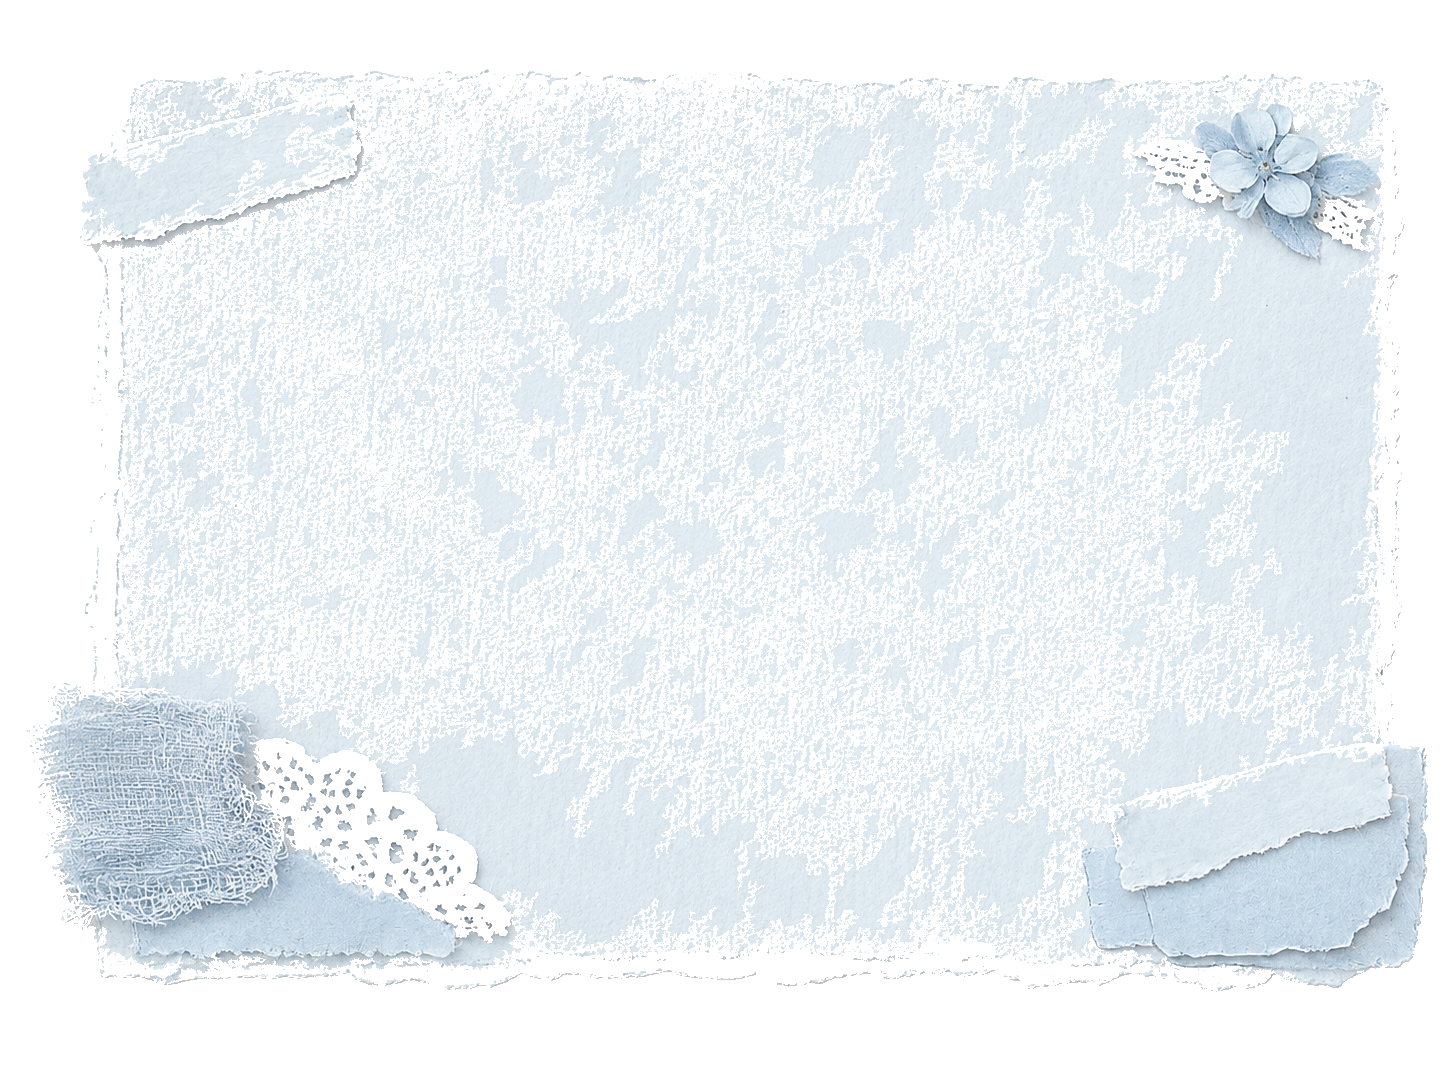
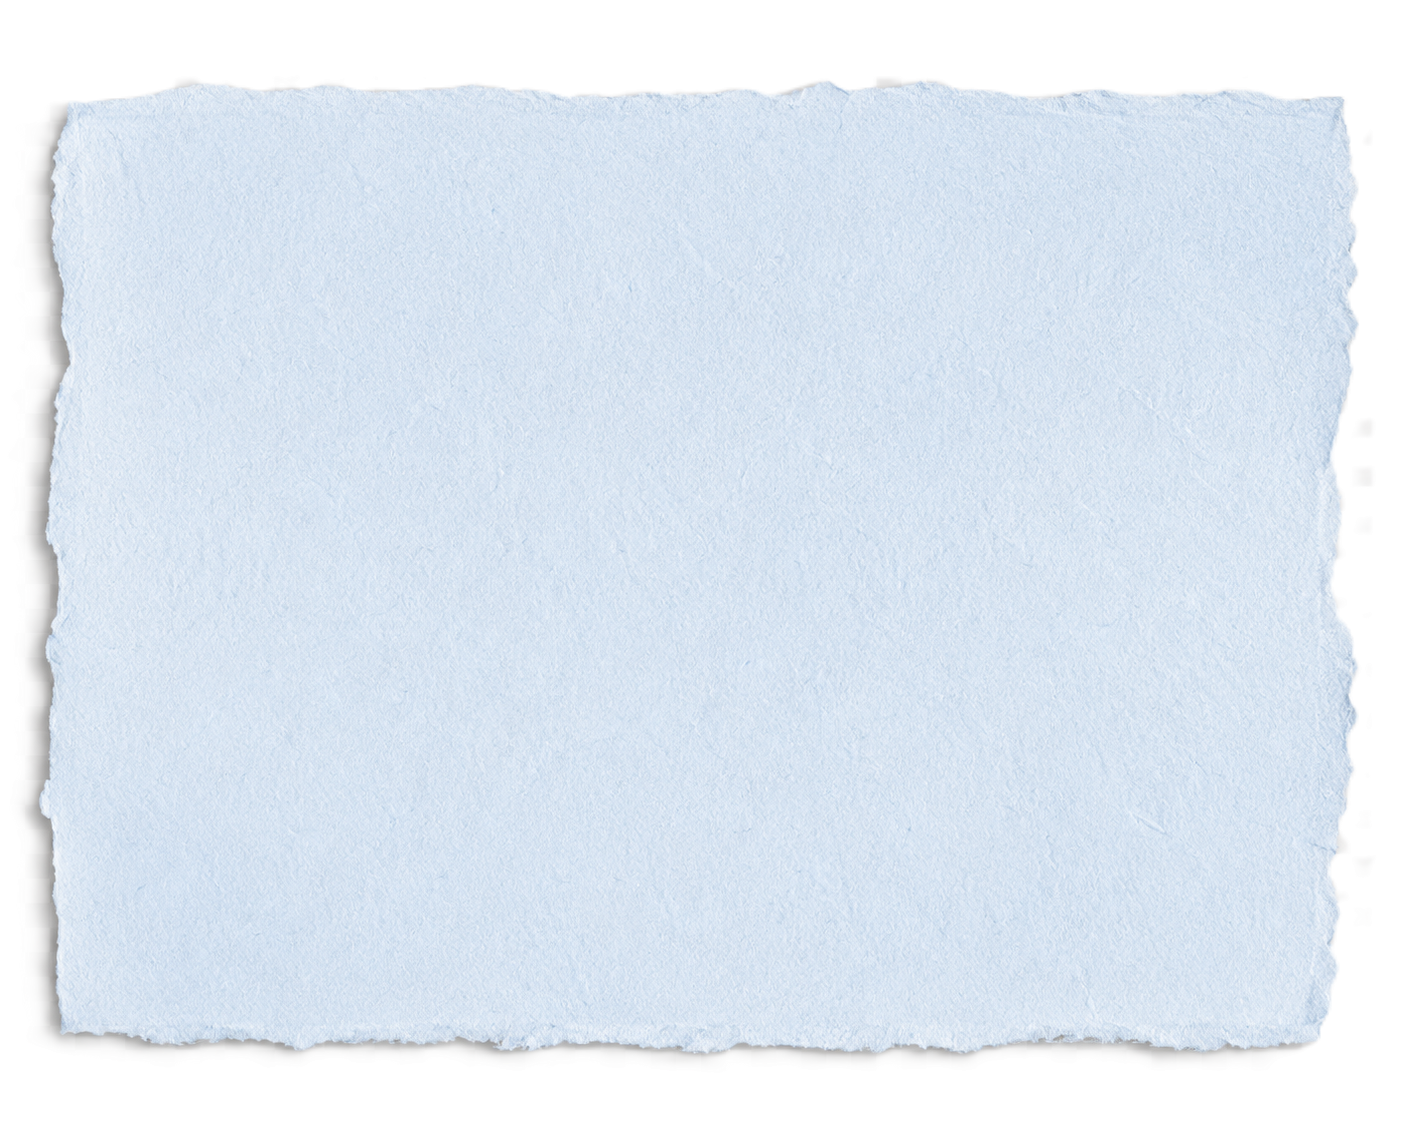
chore: snapshot scrapbook card baseline

diff --git a/src/components/final-card/final-card.module.css b/src/components/final-card/final-card.module.css
@@ -2724,24 +2724,48 @@ body[data-scrapbook-mobile-preview] .componentAssetOverlayLayer {
   padding: 2px;
 }
 
-.paper-birthday .messageTrackGrid2 {
-  display: grid;
-  grid-template-columns: repeat(2, minmax(0, 1fr));
-  gap: 14px;
-}
-
+.paper-birthday .messageTrackGrid2,
 .paper-birthday .messageTrackRow1,
 .paper-birthday .messageTrackRows2 {
-  display: flex;
+  display: grid;
   gap: 14px;
+  width: 100%;
+  max-width: 100%;
+  min-width: 0;
   overflow-x: auto;
   scroll-snap-type: x mandatory;
   padding-bottom: 8px;
+  align-items: stretch;
+  scrollbar-width: thin;
+}
+
+.paper-birthday .messageTrackGrid2 {
+  grid-auto-flow: column;
+  grid-template-rows: repeat(2, minmax(190px, auto));
+  grid-auto-columns: calc((100% - 14px) / 2);
+  min-height: 394px;
+}
+
+.paper-birthday .messageTrackRow1 {
+  grid-auto-flow: column;
+  grid-template-rows: minmax(190px, auto);
+  grid-auto-columns: calc((100% - 28px) / 3);
+  min-height: 206px;
+}
+
+.paper-birthday .messageTrackRows2 {
+  grid-auto-flow: column;
+  grid-template-rows: repeat(2, minmax(190px, auto));
+  grid-auto-columns: calc((100% - 28px) / 3);
+  min-height: 394px;
 }
 
 .paper-birthday .messageTrackRow1 .card,
+.paper-birthday .messageTrackGrid2 .card,
 .paper-birthday .messageTrackRows2 .card {
-  flex: 0 0 min(340px, 82vw);
+  width: 100%;
+  min-width: 0;
+  height: 100%;
   scroll-snap-align: start;
 }
 
@@ -3057,8 +3081,12 @@ body[data-scrapbook-mobile-preview] .componentAssetOverlayLayer {
     padding: 24px 20px;
   }
 
-  .paper-birthday .messageTrackGrid2 {
-    grid-template-columns: 1fr;
+  .paper-birthday .messageTrackGrid2,
+  .paper-birthday .messageTrackRow1,
+  .paper-birthday .messageTrackRows2 {
+    grid-template-rows: unset;
+    grid-auto-columns: minmax(260px, 82vw);
+    min-height: auto;
   }
 
   .paper-birthday .messageSplitFixed {

diff --git a/src/components/final-card/scrapbook-decor-config.ts b/src/components/final-card/scrapbook-decor-config.ts
@@ -533,7 +533,7 @@ export const scrapbookComponentAssets: ScrapbookComponentAsset[] = [
     group: "Quote cards",
     src: "/templates/scrapbook-clean/quote-card-pink-v2.png",
     visible: true,
-    backgroundSize: "110% 102%",
+    backgroundSize: "110% 108%",
     backgroundPositionX: "center",
     backgroundPositionY: "-16px",
     opacity: 1,
@@ -550,9 +550,9 @@ export const scrapbookComponentAssets: ScrapbookComponentAsset[] = [
     group: "Quote cards",
     src: "/templates/scrapbook-clean/quote-card-beige.png",
     visible: true,
-    backgroundSize: "125% 110%",
+    backgroundSize: "125% 98%",
     backgroundPositionX: "center",
-    backgroundPositionY: "-27px",
+    backgroundPositionY: "-6px",
     opacity: 1,
     paddingTop: "1px",
     paddingRight: "28px",
@@ -618,8 +618,8 @@ export const scrapbookComponentAssets: ScrapbookComponentAsset[] = [
     group: "Greeting cards",
     src: "/templates/scrapbook-clean/greeting-card-pink.png",
     visible: true,
-    backgroundSize: "110% 125%",
-    backgroundPositionX: "center",
+    backgroundSize: "113% 120%",
+    backgroundPositionX: "-40px",
     backgroundPositionY: "center",
     opacity: 1,
     paperTop: "0px",
@@ -639,7 +639,7 @@ export const scrapbookComponentAssets: ScrapbookComponentAsset[] = [
     group: "Greeting cards",
     src: "/templates/scrapbook-clean/greeting-card-cream.png",
     visible: true,
-    backgroundSize: "120% 135%",
+    backgroundSize: "110% 119%",
     backgroundPositionX: "center",
     backgroundPositionY: "center",
     opacity: 1,
@@ -660,7 +660,7 @@ export const scrapbookComponentAssets: ScrapbookComponentAsset[] = [
     group: "Greeting cards",
     src: "/templates/scrapbook-clean/greeting-card-blue.png",
     visible: true,
-    backgroundSize: "125% 140%",
+    backgroundSize: "105% 118%",
     backgroundPositionX: "center",
     backgroundPositionY: "center",
     opacity: 1,

diff --git a/docs/SCRAPBOOK_REWORK_PLAN_2026-06-21.md b/docs/SCRAPBOOK_REWORK_PLAN_2026-06-21.md
@@ -1,0 +1,95 @@
+# Scrapbook rework plan, 2026-06-21
+
+## Baseline
+
+The current scrapbook card state is being fixed as a rollback point before the next visual and product rework.
+
+Included in the baseline:
+
+1. Current tuned scrapbook decor config from the latest copied debug panel values.
+2. Current greeting, quote, paper, and message-grid visual fixes.
+3. Newly provided scrapbook source assets for the next iteration.
+
+Temporary screenshot outputs are not part of the baseline.
+
+## Assessment
+
+The current card already has the right direction: warm paper texture, live text, configurable visual assets, and a debug panel that can tune the template without hardcoding every decoration.
+
+The next change is larger than a visual polish pass because it touches both content structure and editor behavior:
+
+1. The old summary block should become a required selected greeting block.
+2. The organizer needs a way to choose the main greeting and optionally generate it with AI.
+3. The qualities block should become gender-neutral and read as an AI extraction from messages.
+4. The hero, memories, and closing blocks need a more premium scrapbook composition.
+5. New decorative assets should be added through the config-driven system, not as one-off CSS where possible.
+
+## Implementation Plan
+
+### 1. Preserve current state
+
+1. Commit the current visual config, current template assets, and message-grid fixes.
+2. Keep this commit as the restore point if the new direction does not land well.
+
+### 2. Asset registration
+
+1. Add the new assets to the scrapbook visual system:
+   - `Фотик`;
+   - `цветок 1`;
+   - `цветок 2`;
+   - `Цветок большой`;
+   - future `Цветок 3` - `Цветок 7`;
+   - `Полароид`;
+   - `Качества ...` paper cards.
+2. Use `greeting-card-grid.png` as the lavender greeting-card variant in the congratulations block.
+3. Prefer config-driven placement for decorative assets so the debug panel can keep tuning them.
+
+### 3. Main Greeting block
+
+1. Rename the editor concept to `Главное поздравление`.
+2. Show it on the card as `Самые важные слова`.
+3. Allow up to 500 characters.
+4. Make the block required for this template.
+5. Let the organizer choose one existing greeting for this block.
+6. Let the organizer create or improve the main greeting with AI from the `Поздравления и фото` tab.
+7. In `Оформление открытки`, show status and a clear hint explaining how to fill the block.
+8. Keep the block freely movable in the card structure.
+
+### 4. Hero redesign
+
+1. Make the recipient name the central visual focus.
+2. Reduce decorative noise around the name.
+3. Keep edge photos, but align them more deliberately using the transparent `Полароид` asset.
+4. Make the CTA more premium.
+5. Make the greeting-count block softer but more noticeable.
+6. Use the supplied reference as the visual direction: more air, cleaner hierarchy, warmer premium scrapbook feel.
+
+### 5. Qualities redesign
+
+1. Rename the block to `За что тебя ценят`.
+2. Change subtitle to `Собрано из поздравлений`.
+3. Use nouns instead of adjectives: `доброта`, `забота`, `надежность`, `вдохновение`, `поддержка`, `тепло`, `юмор`, `искренность`, `энергия`, `мудрость`.
+4. Make the block feel like an AI summary of recurring themes in the greetings.
+5. Render qualities on the new transparent `Качества ...` paper assets.
+
+### 6. Memories redesign
+
+1. Make the first photo larger.
+2. Move toward a more album-like composition.
+3. Unify photo captions and frames.
+4. Add a light decorative accent without crowding the block.
+
+### 7. Closing redesign
+
+1. Make the final block cleaner and warmer.
+2. Improve the `Создать такую же открытку` CTA.
+3. Add a final floral accent.
+
+## Verification
+
+For each phase:
+
+1. Run automated tests.
+2. Capture desktop and mobile screenshots.
+3. Check the public card with and without `debugAssets=1`.
+4. Avoid breaking existing `Колонка + фото` layout while reworking other greeting layouts.